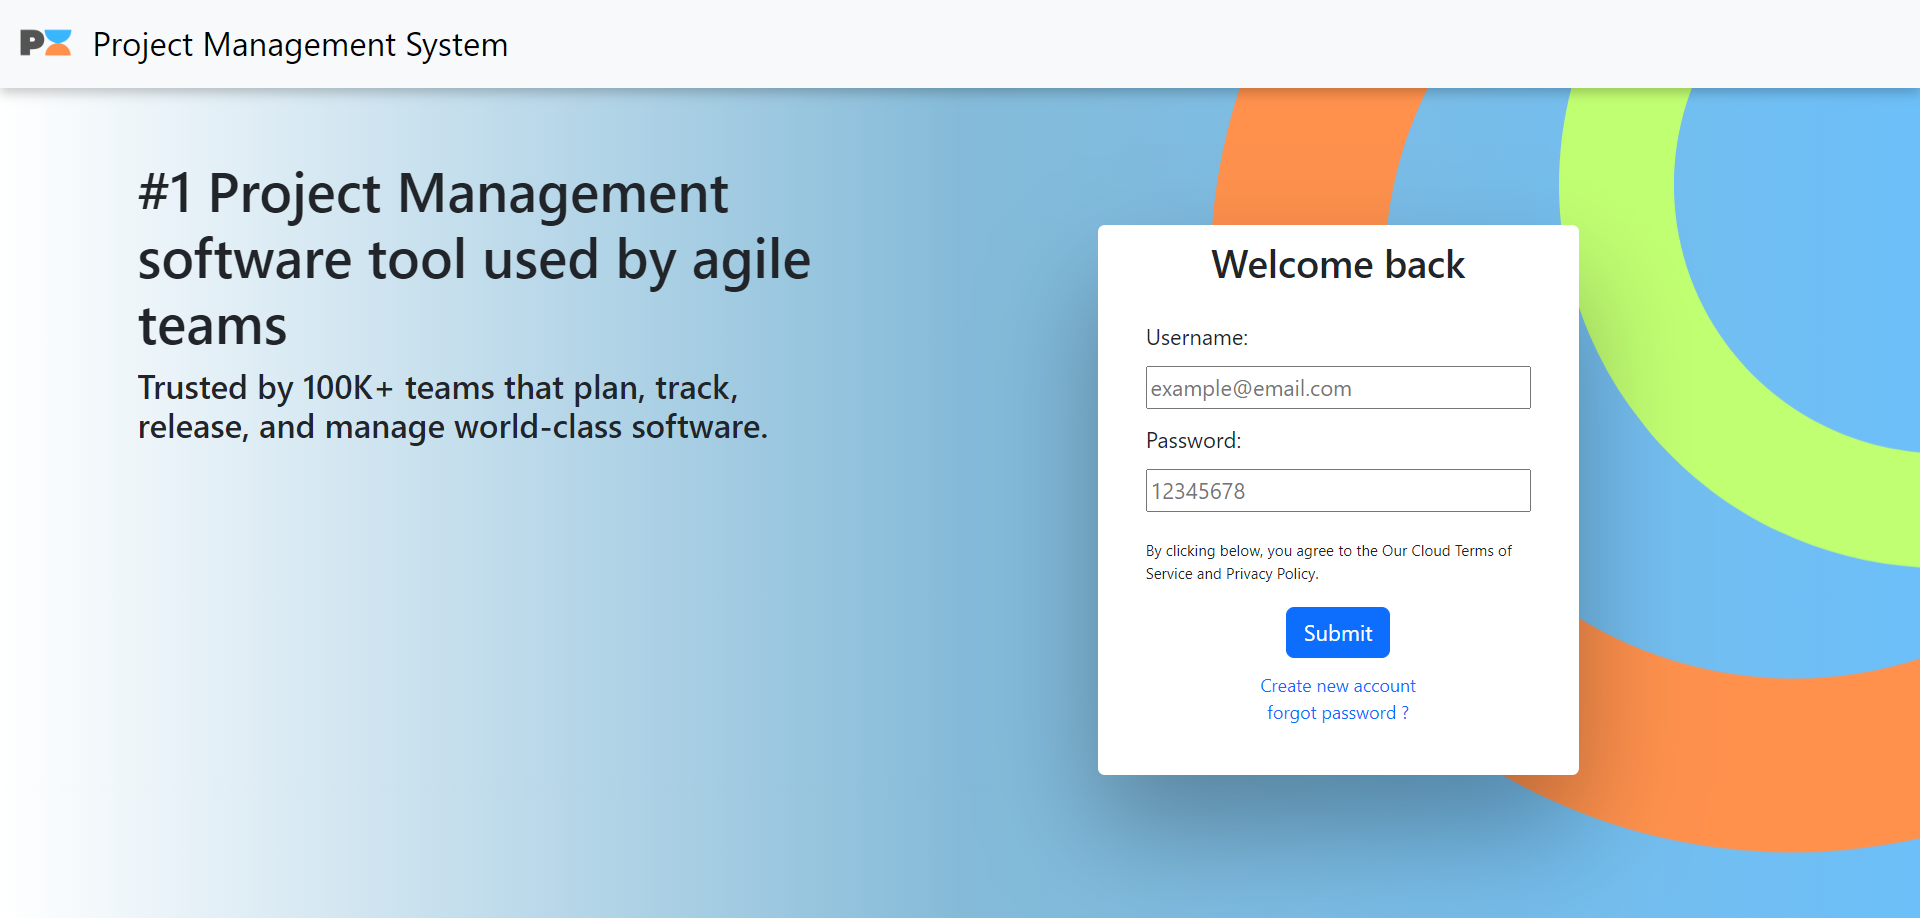
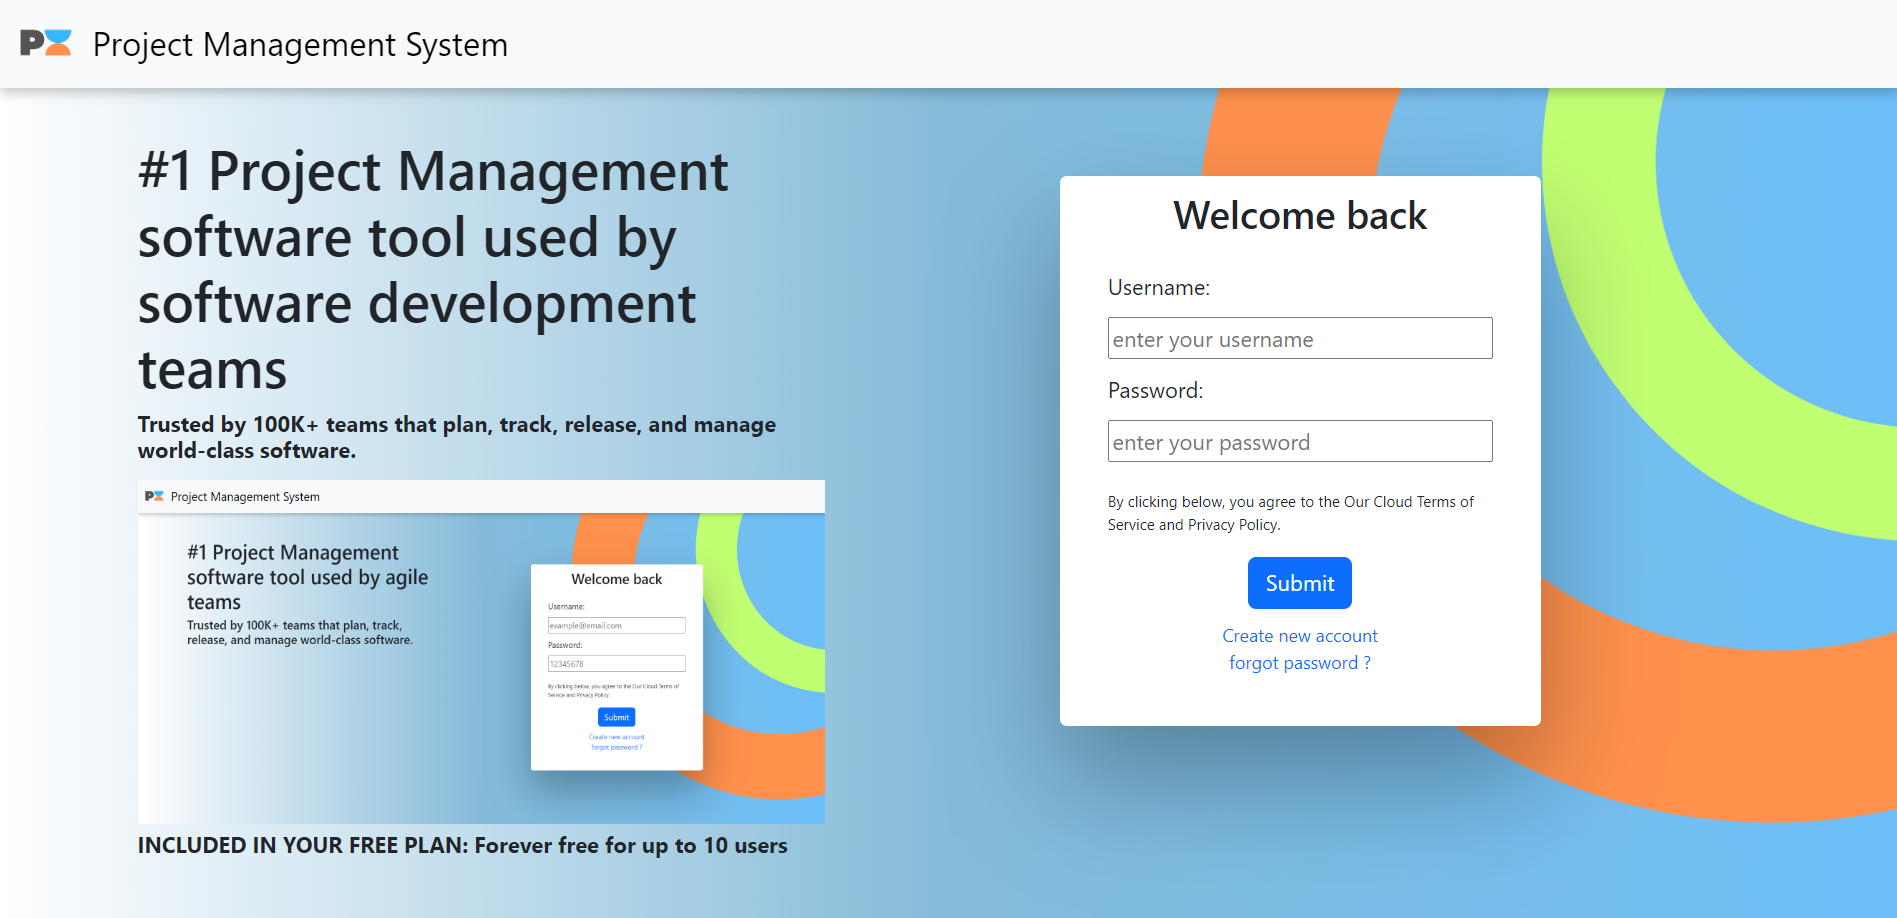
adding dashboard and aside , implementing routing

diff --git a/src/App.jsx b/src/App.jsx
@@ -1,17 +1,19 @@
 import { useState } from "react";
 import "./App.css";
-import Navbar from "./components/Navbar";
-import Banner from "./components/Banner";
-import Banner2 from "./components/Banner2";
-import Banner3 from "./components/Banner3";
+
+import { BrowserRouter, Routes, Route } from "react-router-dom";
+import Home from "./components/Home";
+import Dashboard from "./components/Dashboard";
 
 function App() {
   return (
     <>
-      <Navbar></Navbar>
-      <Banner />
-      <Banner2 />
-      {/* <Banner3 /> */}
+      <BrowserRouter>
+        <Routes>
+          <Route path="/" element={<Home />}></Route>
+          <Route path="/dashboard" element={<Dashboard />}></Route>
+        </Routes>
+      </BrowserRouter>
     </>
   );
 }

diff --git a/src/components/Navbar.jsx b/src/components/Navbar.jsx
@@ -5,7 +5,7 @@ export default function Navbar() {
     <>
       <nav className="navbar bg-body-tertiary fixed-top">
         <div className="container-fluid">
-          <a className="navbar-brand" href="#">
+          <div className="navbar-brand" href="#">
             <img
               src={logo}
               alt="Logo"
@@ -13,11 +13,11 @@ export default function Navbar() {
               height="40"
               className="d-inline-block align-text-top"
             />
-            <a href="nav-link active" id="title">
+            <a href="" id="title">
               {" "}
               Project Management System
             </a>
-          </a>
+          </div>
         </div>
       </nav>
     </>

diff --git a/src/components/Banner.jsx b/src/components/Banner.jsx
@@ -6,7 +6,10 @@ export default function Banner() {
     <>
       <div className="banner">
         <div className="banner-left">
-          <h1>#1 Project Management software tool used by agile teams</h1>
+          <h1>
+            #1 Project Management software tool used by software development
+            teams
+          </h1>
 
           <h4>
             Trusted by 100K+ teams that plan, track, release, and manage

diff --git a/src/components/Dashboard.jsx b/src/components/Dashboard.jsx
@@ -1,0 +1,19 @@
+import { useEffect } from "react";
+import Navbar from "./Navbar";
+import Aside from "./Aside";
+
+export default function Dashboard() {
+  useEffect(() => {
+    console.log("hello");
+  });
+  return (
+    <>
+      <Navbar />
+
+      <div className="dashboard-container">
+        <Aside />
+        
+      </div>
+    </>
+  );
+}

diff --git a/src/App.css b/src/App.css
@@ -195,3 +195,20 @@ nav.navbar .container-fluid .navbar-brand a {
   text-decoration: none;
   font-size: 13px;
 }
+
+/* dashboard */
+
+.dashboard-container {
+  display: flex;
+  width: 100%;
+  padding-top: 70px;
+}
+
+/* aside */
+
+.aside-container {
+  width: 20%;
+  background-color: black;
+
+  height: 90vh;
+}

diff --git a/src/components/Home.jsx b/src/components/Home.jsx
@@ -1,0 +1,14 @@
+import Navbar from ".//Navbar";
+import Banner from "./Banner";
+import Banner2 from "./Banner2";
+import Banner3 from "./Banner3";
+export default function Home() {
+  return (
+    <>
+      <Navbar></Navbar>
+      <Banner />
+      <Banner2 />
+      {/* <Banner3 /> */}
+    </>
+  );
+}

diff --git a/src/components/Aside.jsx b/src/components/Aside.jsx
@@ -1,0 +1,10 @@
+export default function Aside() {
+  return (
+    <>
+      <div className="aside-container">
+          
+
+      </div>
+    </>
+  );
+}
